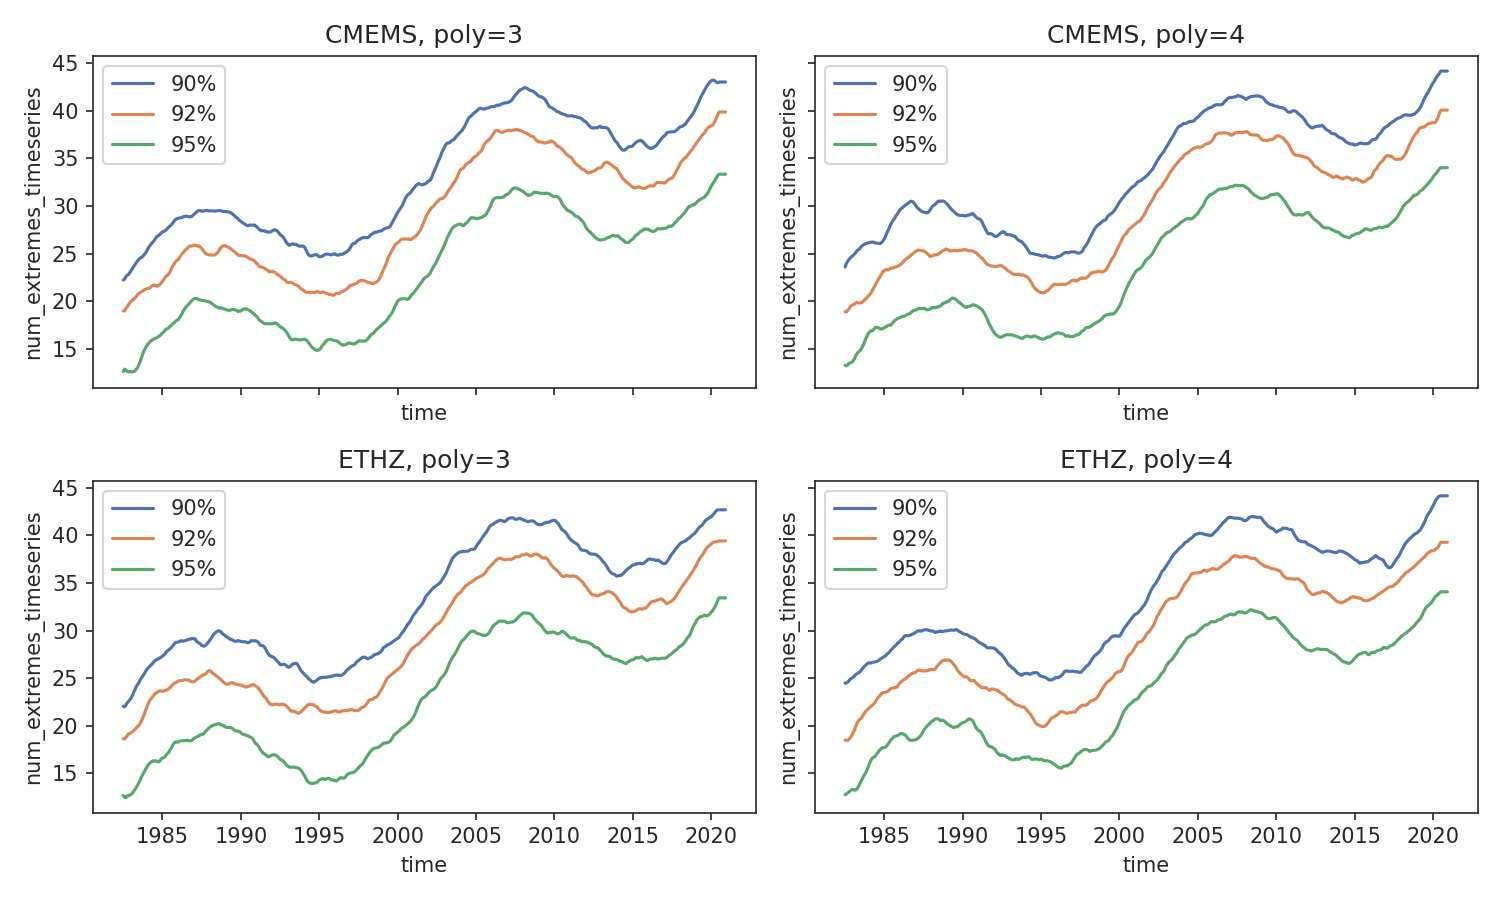
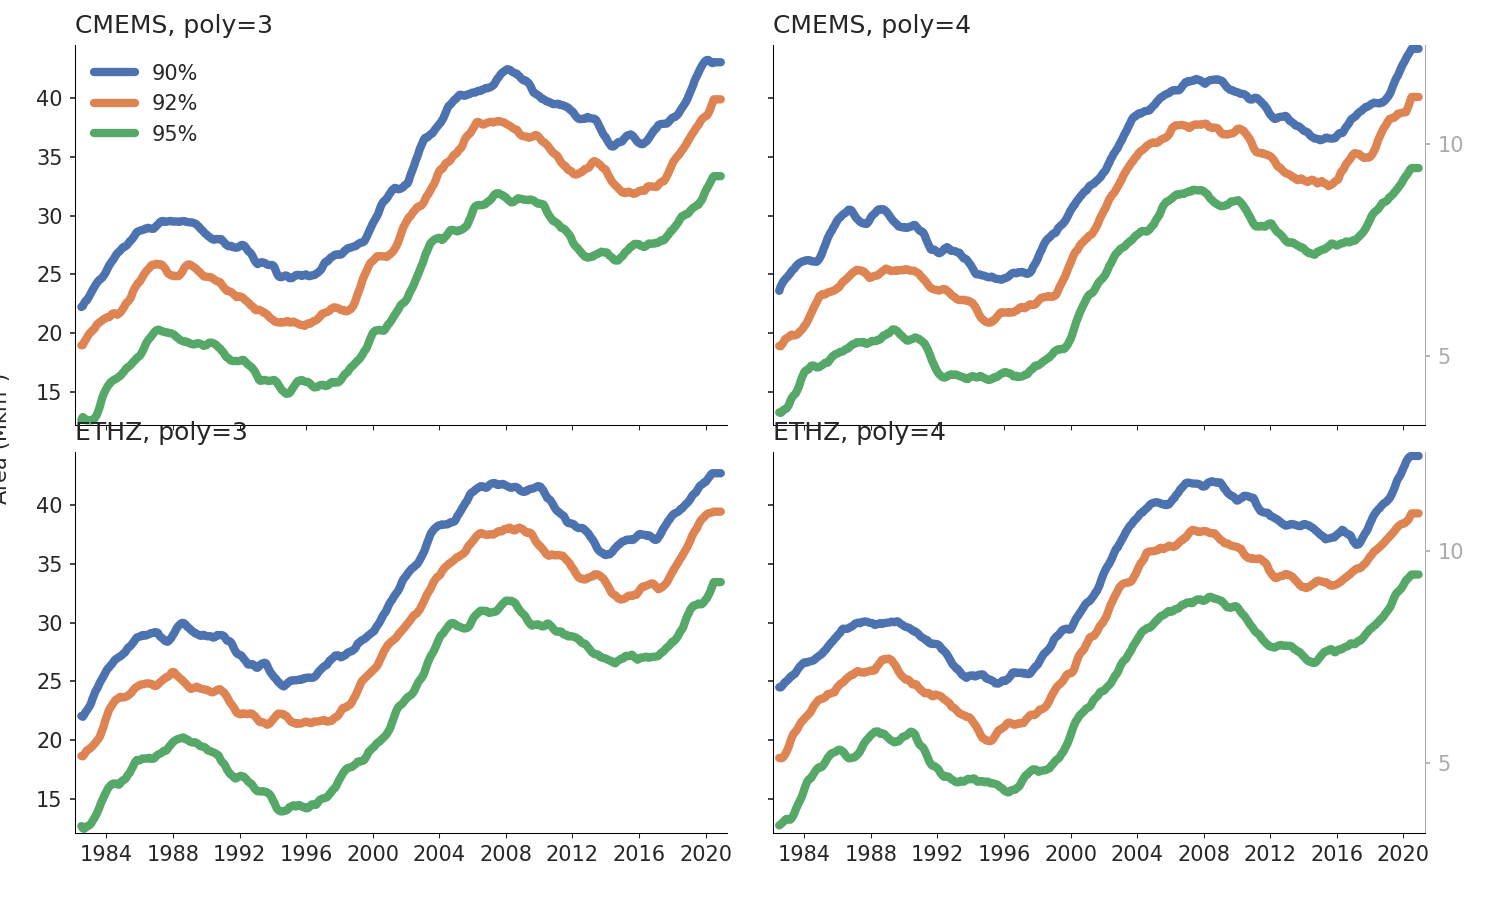
Update sensitivity timeseries plot to 2x2 with styling
- 2x2 layout: Dataset x Polynomial order panels
- 3 lines per panel for threshold percentiles
- lw=4, loc=left titles, shared x/y axes
- Secondary y-axis (% ocean area) on right panels
- Apply vis.line.smooth, plotting.mplstyle style
- Use 361 Mkm2 as dummy global ocean area estimate

https://claude.ai/code/session_01Du1yZ8obyXG9AKxcEZa3qJ

diff --git a/scripts/test_timeseries_plot.py b/scripts/test_timeseries_plot.py
@@ -10,6 +10,8 @@ matplotlib.use("Agg")
 import matplotlib.pyplot as plt
 from compoundx_figs import vis
 
+plt.style.use("/home/user/2025_CompoundExtremes_AGUadvances/scripts/plotting.mplstyle")
+
 # --- create synthetic data matching expected CSV structure ---
 rng = np.random.default_rng(42)
 time = pd.date_range("1982-01", "2020-12", freq="MS")
@@ -21,13 +23,12 @@ rows = []
 for ds in datasets:
     for poly in poly_orders:
         for thresh in thresholds:
-            # simulate a slowly varying count with noise + trend
             signal = (
-                5 * np.sin(np.linspace(0, 4 * np.pi, len(time)))  # multi-year cycle
-                + 0.05 * np.arange(len(time))                      # trend
-                + rng.normal(0, 2, len(time))                      # noise
-                + (1 - thresh) * 200                               # higher threshold -> more events
-                + poly * 0.5                                       # slight poly-order offset
+                5 * np.sin(np.linspace(0, 4 * np.pi, len(time)))
+                + 0.05 * np.arange(len(time))
+                + rng.normal(0, 2, len(time))
+                + (1 - thresh) * 200
+                + poly * 0.5
             ).clip(0)
             for t, v in zip(time, signal):
                 rows.append({
@@ -52,22 +53,34 @@ timeseries = (
 )
 
 # --- replicate new plot cell ---
-ts_unstacked = timeseries.unstack("Experiment")
-
-datasets_vals = ts_unstacked["Dataset"].values
-poly_orders_vals = ts_unstacked["Polynomial order"].values
-threshold_pcts = ts_unstacked["Threshold percentile"].values
+_ts = timeseries.unstack("Experiment")
+_datasets = _ts["Dataset"].values
+_poly_orders = _ts["Polynomial order"].values
+_threshold_pcts = _ts["Threshold percentile"].values
+_total_ocean_mkm2 = 361.0
 
 fig_ts, axs_ts = plt.subplots(2, 2, figsize=(10, 6), sharex=True, sharey=True)
 
-for _i, (_ds, _poly) in enumerate([(d, p) for d in datasets_vals for p in poly_orders_vals]):
+for _i, (_ds, _poly) in enumerate([(_d, _p) for _d in _datasets for _p in _poly_orders]):
     _ax = axs_ts.flatten()[_i]
-    for _threshold in threshold_pcts:
-        _line = ts_unstacked.sel({"Dataset": _ds, "Polynomial order": _poly, "Threshold percentile": _threshold})
-        vis.line.smooth(_line).plot(ax=_ax, label=f"{_threshold:.0%}")
-    _ax.set_title(f"{_ds}, poly={_poly}")
-    _ax.legend()
+    for _threshold in _threshold_pcts:
+        _line = _ts.sel({"Dataset": _ds, "Polynomial order": _poly, "Threshold percentile": _threshold})
+        vis.line.smooth(_line).plot(ax=_ax, label=f"{_threshold:.0%}", lw=4)
+    _ax.set_title("")
+    _ax.set_title(f"{_ds}, poly={_poly}", loc="left")
+    _ax.set_xlabel("")
+    _ax.set_ylabel("")
 
-fig_ts.tight_layout()
+for _ax_right in axs_ts[:, 1]:
+    _ax2 = vis.line.add_secondary_yaxis_with_custom_values(
+        _ax_right,
+        ticks=[5, 10, 15, 20],
+        tick_inverter=lambda x: x / 100 * _total_ocean_mkm2,
+    )
+
+axs_ts[0, 0].legend()
+vis.line.set_fig_ylabel(axs_ts[:, 0].tolist(), "Area (Mkm$^2$)", x=-0.05)
+vis.line.set_fig_ylabel(axs_ts[:, 1].tolist(), "% Ocean area", x=0.97)
+
 fig_ts.savefig("/home/user/2025_CompoundExtremes_AGUadvances/scripts/test_output/test_timeseries_2x2.png", dpi=150)
 print("Saved to scripts/test_output/test_timeseries_2x2.png")

diff --git a/scripts/figures_mo.py b/scripts/figures_mo.py
@@ -1248,23 +1248,35 @@ def _(df_timeseries):
 
 @app.cell
 def _(timeseries):
-    ts_unstacked = timeseries.unstack("Experiment")
-
-    datasets = ts_unstacked["Dataset"].values
-    poly_orders = ts_unstacked["Polynomial order"].values
-    threshold_pcts = ts_unstacked["Threshold percentile"].values
+    _ts = timeseries.unstack("Experiment")
+    _datasets = _ts["Dataset"].values
+    _poly_orders = _ts["Polynomial order"].values
+    _threshold_pcts = _ts["Threshold percentile"].values
+    _total_ocean_mkm2 = 361.0
 
     fig_ts, axs_ts = plt.subplots(2, 2, figsize=(10, 6), sharex=True, sharey=True)
 
-    for _i, (_ds, _poly) in enumerate([(d, p) for d in datasets for p in poly_orders]):
+    for _i, (_ds, _poly) in enumerate([(_d, _p) for _d in _datasets for _p in _poly_orders]):
         _ax = axs_ts.flatten()[_i]
-        for _threshold in threshold_pcts:
-            _line = ts_unstacked.sel({"Dataset": _ds, "Polynomial order": _poly, "Threshold percentile": _threshold})
-            vis.line.smooth(_line).plot(ax=_ax, label=f"{_threshold:.0%}")
-        _ax.set_title(f"{_ds}, poly={_poly}")
-        _ax.legend()
+        for _threshold in _threshold_pcts:
+            _line = _ts.sel({"Dataset": _ds, "Polynomial order": _poly, "Threshold percentile": _threshold})
+            vis.line.smooth(_line).plot(ax=_ax, label=f"{_threshold:.0%}", lw=4)
+        _ax.set_title("")
+        _ax.set_title(f"{_ds}, poly={_poly}", loc="left")
+        _ax.set_xlabel("")
+        _ax.set_ylabel("")
 
-    fig_ts.tight_layout()
+    for _ax_right in axs_ts[:, 1]:
+        _ax2 = vis.line.add_secondary_yaxis_with_custom_values(
+            _ax_right,
+            ticks=[5, 10, 15, 20],
+            tick_inverter=lambda x: x / 100 * _total_ocean_mkm2,
+        )
+
+    axs_ts[0, 0].legend()
+    vis.line.set_fig_ylabel(axs_ts[:, 0].tolist(), "Area (Mkm$^2$)", x=-0.05)
+    vis.line.set_fig_ylabel(axs_ts[:, 1].tolist(), "% Ocean area", x=0.97)
+
     fig_ts
     return (fig_ts,)
 